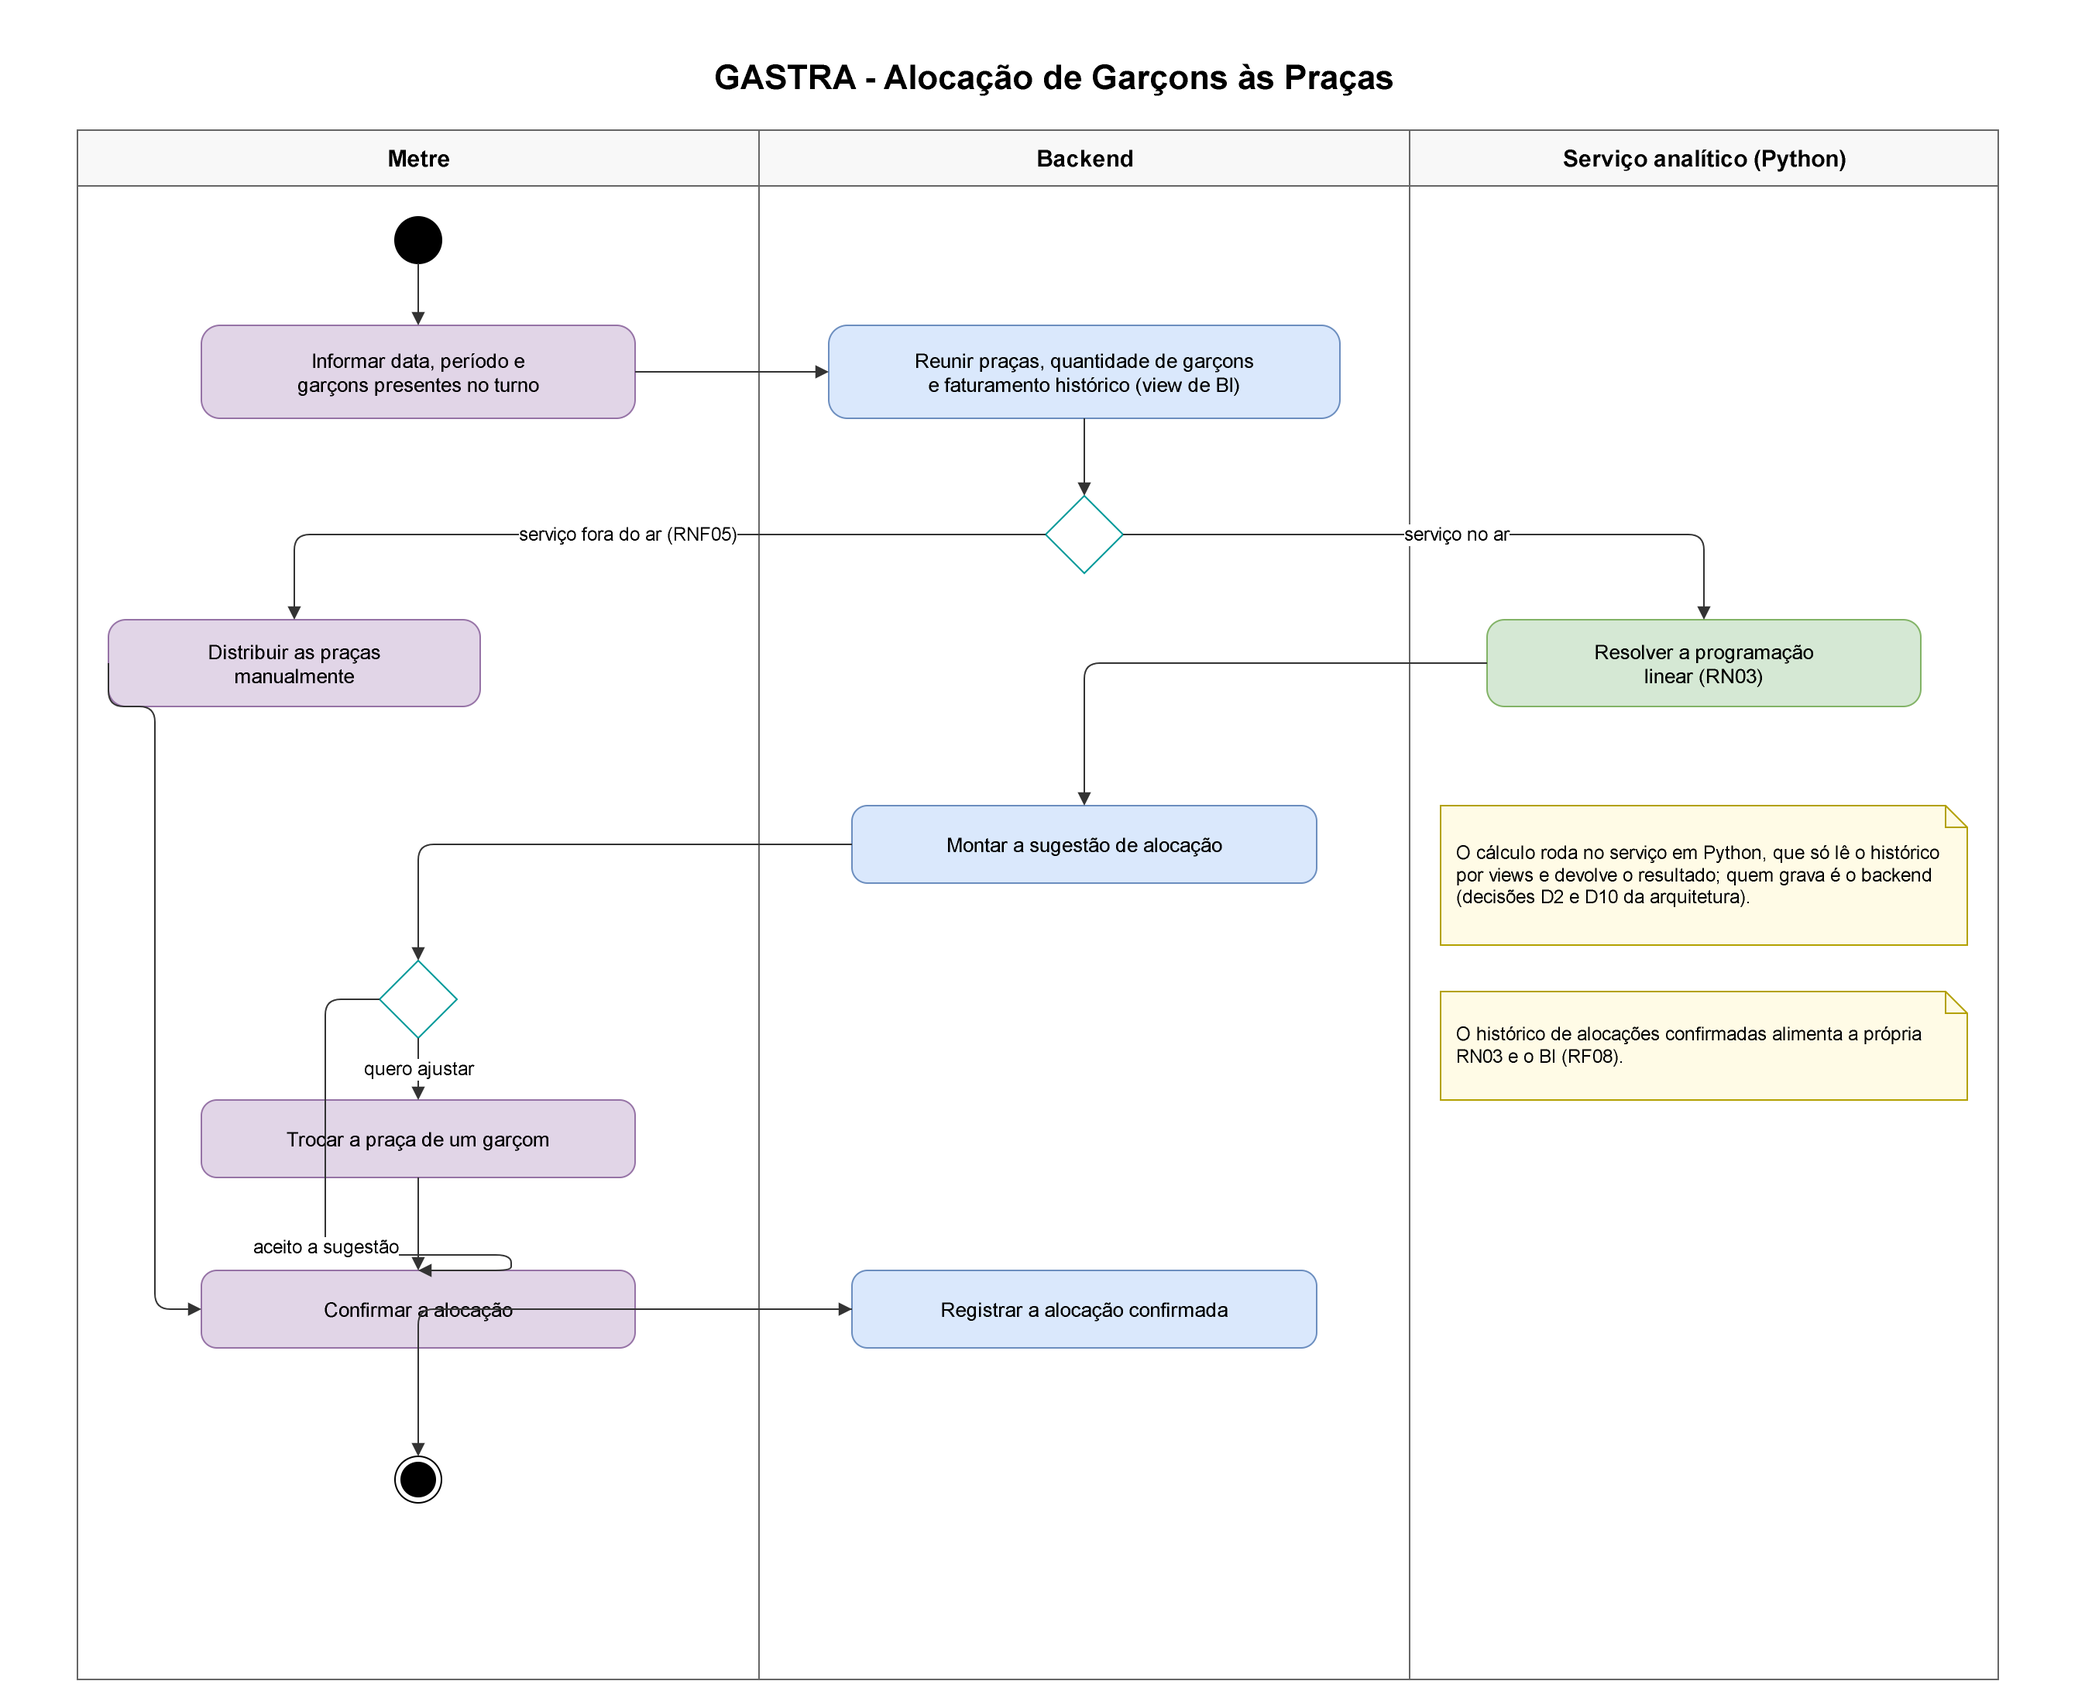
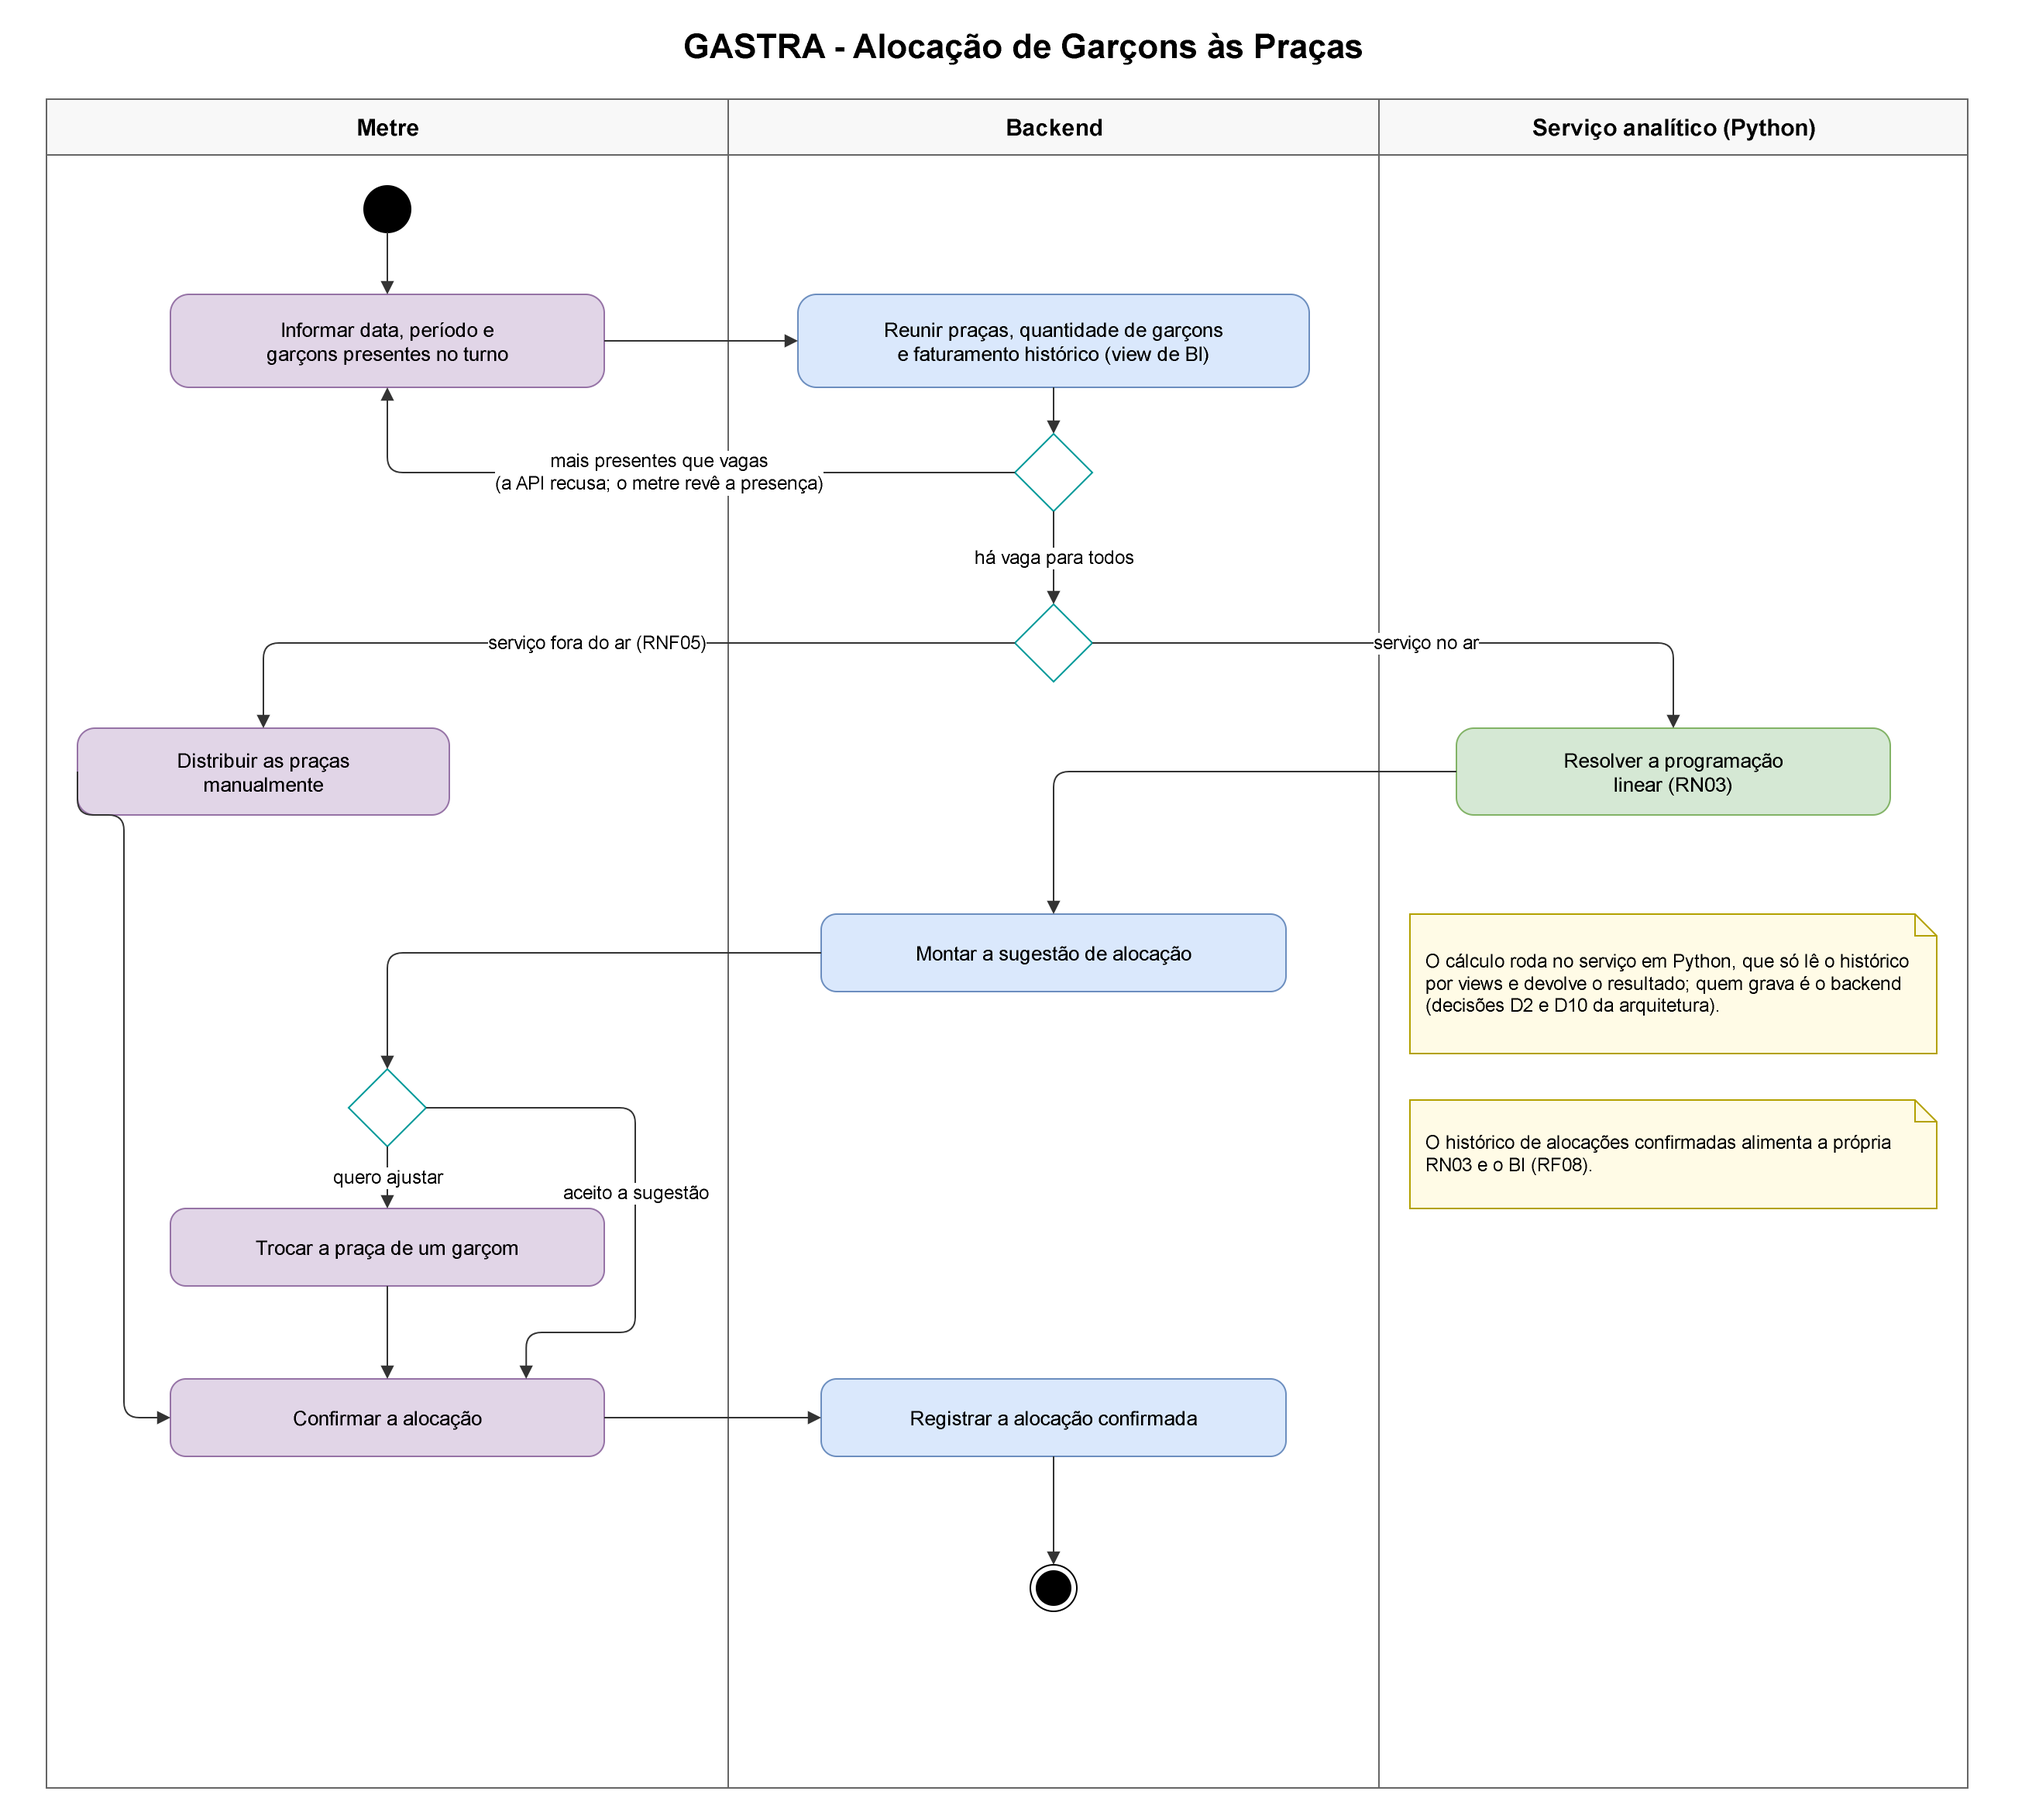
docs: sequência, atividade e matriz de rastreabilidade conferidas (#193, #194, #197)
Sequência: das 11 rotas citadas, dez batem com os controllers e com o
serviço Python. A do item do pedido estava errada — ele não tem rota
própria, vive dentro da comanda: /api/comandas/{id}/itens/{itemId}.

Atividade, núcleo de comandas: o diagrama dizia "copiar o preço atual";
o código congela o promocional quando há promoção vigente (RF22).

Atividade, alocação: faltava a decisão de vagas. O backend recusa gerar
a sugestão quando há mais garçons presentes do que vagas, e faz isso
antes de chamar o Python. Entrou na ordem do código. E uma seta que
parecia sair de "Confirmar" direto para o fim — o que em UML seria
paralelismo — era na fonte Registrar → fim, roteada por cima da caixa.
Fluxo certo, traçado enganoso: o nó final foi para baixo de Registrar.

Matriz: faltavam RF25, UC25 e RN08, que entraram com a avaliação.

E uma correção do que eu mesmo escrevi na #225: disse que o RF12 não
aparecia em lugar nenhum. Aparece na matriz, como Reprovado — era o
cliente poder pedir a exclusão do próprio histórico. A busca errou
porque o Word parte o texto em pedaços; extraindo célula por célula, o
RF12 aparece. Foi o mesmo problema que quase me fez dar a UC15 como
ausente, e ela está lá.

diff --git a/docs/modelagem/GASTRA_Revisao_Modelagem.md b/docs/modelagem/GASTRA_Revisao_Modelagem.md
@@ -34,8 +34,8 @@ Toda divergência encontrada vira linha na seção 4, com a decisão tomada.
 |---|---|---|
 | 6 de casos de uso | UCxx do `GASTRA_Casos_de_Uso.docx`, atores, RF | ✅ inventário conferido, ver 4.7 |
 | 4 de classes | Nomes do código (`Gastra.Domain`, `Gastra.Infrastructure`) | ✅ corrigidos, ver 4.3 e 4.9 |
-| 3 de sequência | Classes e endpoints existentes | ⏳ a revisar (#193) |
-| 2 de atividade | RN01–RN08 e o fluxo do código | ⏳ a revisar (#194) |
+| 3 de sequência | Classes e endpoints existentes | ✅ corrigido, ver 4.10 |
+| 2 de atividade | RN01–RN08 e o fluxo do código | ✅ corrigidos, ver 4.11 |
 | Implantação | `infra/docker-compose.yml` | ✅ corrigido, ver 4.2 |
 | MER e DER | Banco depois das migrations | ✅ conferido, ver 4.1 |
 
@@ -189,13 +189,71 @@ O construtor da `Comanda` também passou a aparecer, porque é nele que o códig
 O `GASTRA_Classe_Pacotes`, o outro desenhado à mão, não tinha divergência: todo nome dele existe no
 código.
 
+### 4.10 Uma rota errada no diagrama de sequência (#193)
+
+As 11 rotas citadas nos três diagramas de sequência foram cruzadas com os atributos `[Http*]` dos
+controllers e com as rotas do serviço Python. Dez batem. **Uma não:**
+
+| No diagrama | No código |
+|---|---|
+| `PATCH /api/itens/{id}/situacao` | `PATCH /api/comandas/{id}/itens/{itemId}/situacao` |
+
+O item do pedido não tem rota própria: ele vive dentro da comanda, e a rota diz isso. Corrigido, com o
+rótulo quebrado em duas linhas para não atravessar a linha de vida do controller. Os nomes de classe e
+método dos três diagramas existem todos no código.
+
+### 4.11 Os diagramas de atividade (#194)
+
+**Núcleo de comandas — o preço.** A ação dizia "copiar o preço atual (RF03)". O código congela o
+**preço promocional quando há promoção vigente** (RF03 + RF22, em `RegistrarItemPedidoUseCase`). O rótulo agora
+diz isso.
+
+**Alocação — uma decisão que o desenho não tinha.** O backend recusa gerar a sugestão quando há mais
+garçons presentes do que vagas nas praças (`AlocacaoSemVagas`), e faz essa checagem **antes** de chamar o
+Python — logo depois de ler as praças. O diagrama ia direto para "o serviço está no ar?". Entrou a decisão
+nova, na ordem do código, com a saída "mais presentes que vagas" voltando para o metre rever a presença.
+
+**Alocação — uma seta que enganava.** Na imagem, parecia sair de "Confirmar a alocação" uma seta direto
+para o fim, além da seta para "Registrar" — o que em UML é paralelismo implícito, e o fluxo real é
+sequencial. **Na fonte, o fluxo estava certo:** a seta era Registrar → fim, roteada por cima da caixa
+"Confirmar", atravessando o texto dela. O nó final foi para baixo de "Registrar", e a seta de "aceito a
+sugestão", que dava a volta e entrava em "Confirmar" por um laço, passou a entrar direto pelo topo.
+
+É a lição oposta à da seção 4.2: lá a lista de elementos escondia o problema e só a imagem o mostrou; aqui a
+imagem sugeria um problema que a fonte desmentia. **Revisar diagrama exige olhar os dois.**
+
+### 4.12 A Matriz de Rastreabilidade não tinha o que entrou com a avaliação (#197)
+
+Faltavam **RF25, UC25 e RN08** — tudo o que nasceu com a avaliação do atendimento (#39). Entraram as três, com a
+fonte "Decisão da dupla (21/09) — issue #39", e o RF18 passou a ter na matriz o mesmo texto ampliado do
+documento de requisitos.
+
+**Sobre o RF12, uma correção.** A ficha de números da pesquisa (#205) dizia que o RF12 não aparecia em
+lugar nenhum. Aparece, na matriz, e a história é melhor do que "foi retirado":
+
+| ID | Descrição | Fonte | Artefatos | Status |
+|---|---|---|---|---|
+| RF12 | O Cliente poder solicitar a exclusão do seu histórico de pedidos a qualquer momento | Questionário de clientes (n = 13) — LGPD | (removido) | **Reprovado** |
+
+Ou seja: o requisito foi **avaliado e reprovado**, e a matriz mantém a linha com o status para registrar a
+decisão. É o jeito certo de documentar um requisito recusado — e responde a pergunta "cadê o RF12?" melhor
+do que qualquer nota. O motivo da reprovação não está escrito na matriz; vale a dupla registrar, e a hipótese
+natural é que **o sistema não identifica o cliente** (RN04, e agora RN08), então não há histórico de cliente
+para excluir.
+
+**Por que as duas buscas erraram.** O Word parte o texto em pedaços (*runs*) sem critério visível: "UC15"
+estava gravado como "UC1" + "5". Tirar as tags trocando-as por espaço separa os pedaços ("UC1 5") e a
+busca não acha; tirar as tags sem espaço junta também células vizinhas ("RF11RF12RF13") e a busca por
+palavra inteira falha. O primeiro erro quase registrou a UC15 como ausente; o segundo produziu a afirmação
+errada sobre o RF12. **A extração certa é por célula:** juntar os pedaços dentro de cada `<w:tc>` e separar
+uma célula da outra. Foi assim que esta seção foi conferida.
+
 ## 5. O que ficou pendente, e por quê
 
 | Pendência | Por que não foi feito aqui | Issue |
 |---|---|---|
+| Motivo da reprovação do RF12 registrado na matriz | Decisão da dupla; a matriz só tem o status | #197 |
 | `avaliacao_atendimento` no MER e no DER | Exige o brModelo, que é aplicação gráfica | #196 |
-| UC04 e Matriz de Rastreabilidade acompanhando o RF18 | Edição nos `.docx` de casos de uso e rastreabilidade | #197 |
-| Revisão dos 15 diagramas contra o checklist | É o trabalho das #191–#195 | #191–#195 |
 
 ## 6. Como repetir a conferência do banco
 
